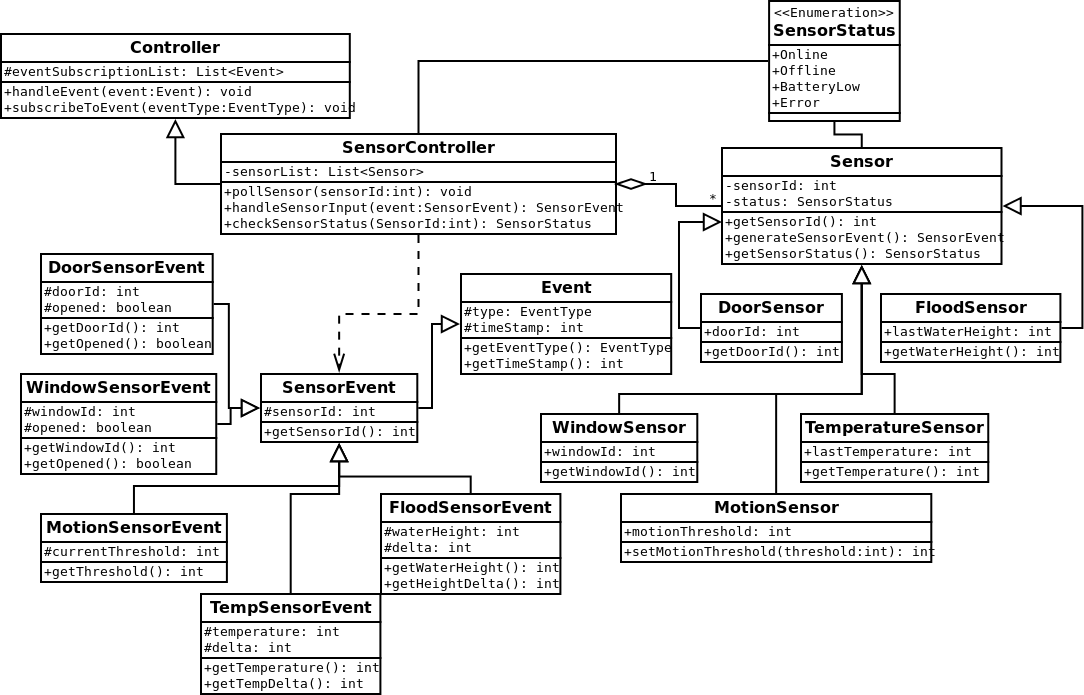
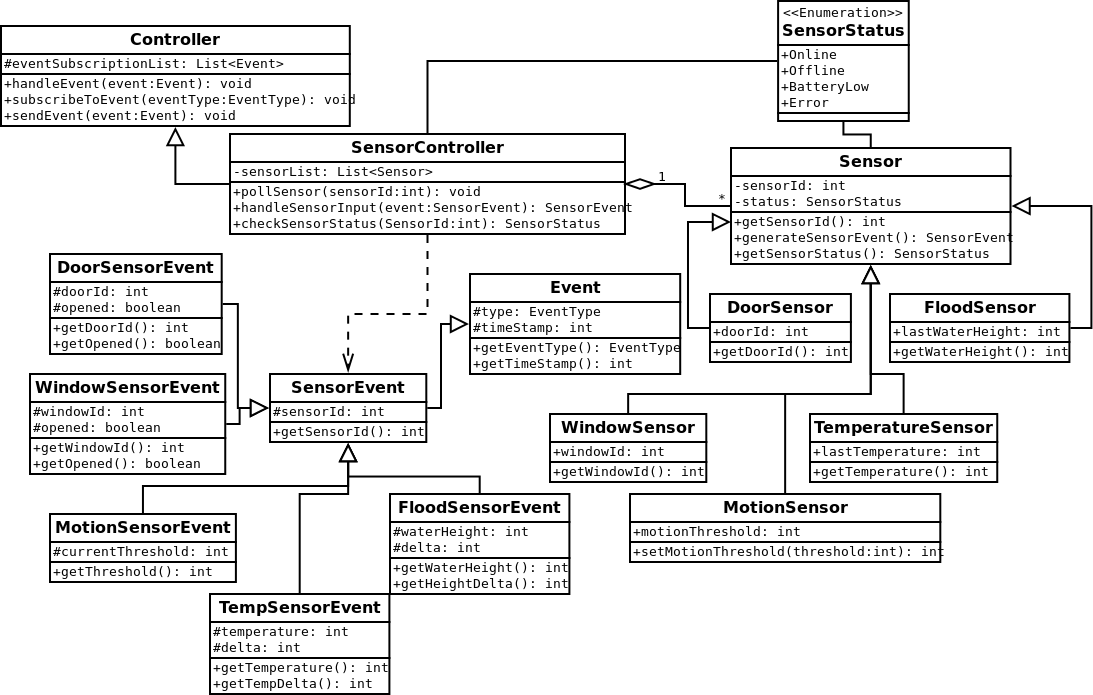
added alarm controller, fixed other controllers

diff --git a/sdd/sdd.tex b/sdd/sdd.tex
@@ -293,7 +293,15 @@ This reduces both compile-time and run-time dependency.
 \end{figure}
 \end{landscape} 
 
-
+\begin{landscape}
+\floatstyle{plain}
+\restylefloat{figure}
+\begin{figure}
+    \caption{AlarmController Class Diagram}
+    \label{fig:alarm_controller_class_diagram}
+    \includegraphics[scale=0.5]{alarm_controller_class_diagram.png}
+\end{figure}
+\end{landscape}
 
 \section{Dynamic Design Model}
 
